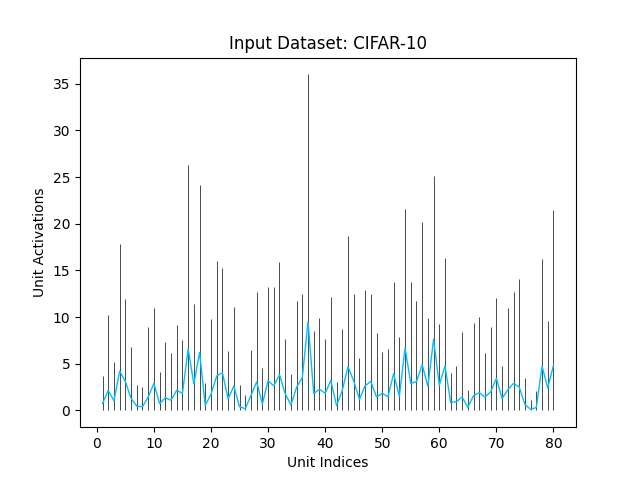
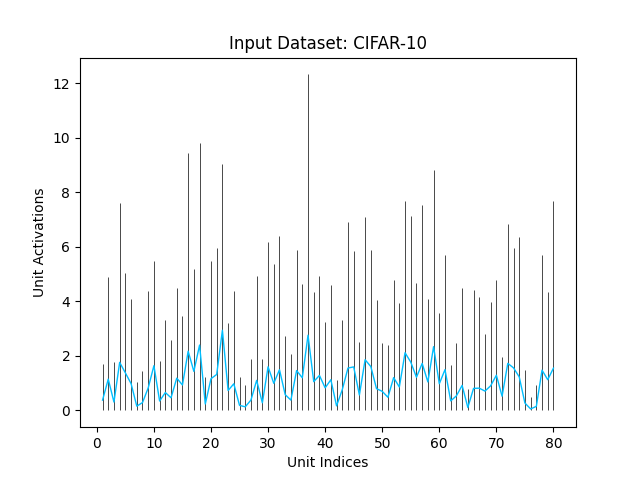
added gaussian noise

diff --git a/util/data_loader.py b/util/data_loader.py
@@ -53,6 +53,18 @@ transform_mnist = transforms.Compose([
 
 kwargs = {'num_workers': 2, 'pin_memory': True}
 
+class AddGaussianNoise(object):
+    def __init__(self, mean=0., std=1.):
+        self.std = std
+        self.mean = mean
+        
+    def __call__(self, tensor):
+        return tensor + torch.randn(tensor.size()) * self.std + self.mean
+    
+    def __repr__(self):
+        return self.__class__.__name__ + '(mean={0}, std={1})'.format(self.mean, self.std)
+
+
 def get_loader_in(args, config_type='default', split=('train', 'val')):
     config = EasyDict({
         "default": {
@@ -169,7 +181,16 @@ def get_loader_out(args, dataset=(''), config_type='default', split=('train', 'v
             #     batch_size=config.batch_size, shuffle=True, **kwargs)
             dataset = load_dataset("imagenet-1k", split='val', use_auth_token='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')
             dataset.set_transform(config.transform_test_largescale)
-            val_ood_loader = torch.utils.data.DataLoader(dataset, batch_size=config.batch_size, shuffle=True, **kwargs)
+            val_ood_loader = torch.utils.data.DataLoader(dataset, batch_size=config.batch_size, shuffle=True, **kwargs) 
+        elif val_dataset.startswith('CIFAR-10'):
+            std = float(val_dataset.rsplit('-')[-1])
+            transform = transforms.Compose([
+                transforms.ToTensor(), 
+                transforms.Normalize((0.5, 0.5, 0.5), (0.5, 0.5, 0.5)),
+                AddGaussianNoise(0., std),
+            ])
+            valset = torchvision.datasets.CIFAR10(root='./data', train=False, download=True, transform=transform)
+            val_ood_loader = torch.utils.data.DataLoader(valset, batch_size=config.batch_size, shuffle=True, **kwargs)
         else:
             val_ood_loader = torch.utils.data.DataLoader(torchvision.datasets.ImageFolder("./datasets/ood_data/{}".format(val_dataset),
                                                           transform=transform_test), batch_size=batch_size, shuffle=False, num_workers=2)
